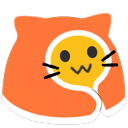
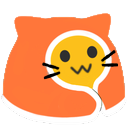
Another commit???

diff --git a/index.js b/index.js
@@ -4,8 +4,11 @@ const canvas2 = document.getElementById('canvas2');
 const context1 = canvas1.getContext('2d');
 const context2 = canvas2.getContext('2d');
 
-const blobcat = new Image(); blobcat.src = "blobcat.png";
-const blobfox = new Image(); blobfox.src = "blobfox.png";
+const rootContext = document.body.getAttribute("data-root");
+const blobcat = new Image(); blobcat.onload = function() {blobcat.crossOrigin = "Anonymous";}; blobcat.src = "blobcat.png";
+const blobfox = new Image(); blobfox.onload = function() {blobfox.crossOrigin = "Anonymous";}; blobfox.src = "blobfox.png";
+const blobcatoverlay = new Image(); blobcatoverlay.onload = function() {blobcatoverlay.crossOrigin = "Anonymous";}; blobcatoverlay.src = "blobcatoverlay.png";
+const blobfoxoverlay = new Image(); blobfoxoverlay.onload = function() {blobfoxoverlay.crossOrigin = "Anonymous";}; blobfoxoverlay.src = "blobfoxoverlay.png";
 
 function flagSelected() {
     const file = flagFile.files[0];
@@ -14,7 +17,7 @@ function flagSelected() {
     }
 
     
-    var reader = new FileReader();
+    let reader = new FileReader();
     reader.readAsDataURL(file);
 
     reader.onloadend = function() {
@@ -23,32 +26,72 @@ function flagSelected() {
         img.src = URL.createObjectURL(file);
 
         img.addEventListener('load', () => {
-            drawEmoji(blobcat, null, img, context1)
-            drawEmoji(blobfox, null, img, context2)
+            drawEmoji(blobcat, blobcatoverlay, img, context1)
+            drawEmoji(blobfox, blobfoxoverlay, img, context2)
         }, false);
     }
-         
-
-    /*
-    img.addEventListener('load', () => {
-        context.drawImage(img, 0, 0);
-        context.beginPath();
-        context.rect(5, 5, 100, 80);
-        context.stroke();
-        console.log("drawed");
-    }, false);
-    
-    img.scr = URL.createObjectURL(file);
-
-    console.log(img);
-    */
-    
 }
 
 flagFile.addEventListener("change", flagSelected, false);
 
+function lerpColor(a, b, t) {
+    return [
+        a[0] + (b[0] - a[0]) * t,
+        a[1] + (b[1] - a[1]) * t,
+        a[2] + (b[2] - a[2]) * t,
+        a[3] + (b[3] - a[3]) * t,
+    ];
+}
+
 function drawEmoji(background, overlay, flag, ctx) {
+    const pixelImageData = ctx.createImageData(1, 1);
+
     ctx.clearRect(0, 0, 128, 128);
-    ctx.drawImage(background, 0, 0);
-    ctx.drawImage(flag, 0, 0)
+
+    const backgroundCanvas = imageToCanvas(background);
+    const overlayCanvas = imageToCanvas(overlay);
+    const flagCanvas = imageToCanvas(flag);
+
+    const flagSize = Math.min(flag.width, flag.height);
+
+    for (let x = 0; x < 127; x++) {
+        for (let y = 0; y < 127; y++) {
+            let backgroundPixel = backgroundCanvas.getImageData(x, y, 1, 1).data;
+            let overlayPixel = overlayCanvas.getImageData(x, y, 1, 1).data;
+            let dx = (flag.width - flagSize) + overlayPixel[0] / 255 * flagSize;
+            let dy = overlayPixel[1] / 255 * flagSize;
+            let flagPixel = flagCanvas.getImageData(dx, dy, 1, 1).data; flagPixel[3] = 255;
+            let pixel = lerpColor(backgroundPixel, flagPixel, overlayPixel[3]/255);
+            if (backgroundPixel < 250) {
+                pixel = flagPixel;
+                pixel[3] = overlayPixel[3];
+            }
+            pixelImageData.data[0] = pixel[0];
+            pixelImageData.data[1] = pixel[1];
+            pixelImageData.data[2] = pixel[2];
+            pixelImageData.data[3] = pixel[3];
+
+            ctx.putImageData(pixelImageData, x, y);
+        }
+    }
+}
+
+function imageToCanvas(image) {
+    const canvas = document.createElement("CANVAS");
+    canvas.width = image.width;
+    canvas.height = image.height;
+
+    const ctx = canvas.getContext('2d');
+
+    ctx.drawImage(image, 0, 0);
+
+    return ctx;
+}
+
+function saveCanvas(name, canvas) {
+    const link = document.createElement('a');
+    link.download = name + '.png';
+    link.href = canvas.toDataURL();
+    link.click();
+    link.delete;
 }

diff --git a/index.html b/index.html
@@ -1,13 +1,24 @@
 <html>
     <head>
-        <script src="index.js" defer="true"></script>
+        <title>blob cat, fox emoji thing</title>
         <link rel="stylesheet" href="index.css">
+        <script src="index.js" defer="true"></script>
     </head>
     <body>
-        <label for="myfile">Select a file:</label>
-        <input type="file" id="flagFile" name="flag", accept="image/*", capture="user">
+        <h1>blobcat / blobfox emoji generator</h1>
+        <p>simple website that generates blobcat or blobfox emoji with blanket that have any texture you want</p>
 
-        <canvas id="canvas1" width="128" height="128"></canvas>
-        <canvas id="canvas2" width="128" height="128"></canvas>
+        <input type="file" id="flagFile" name="flag", accept="image/*", capture="user">
+        
+        <div class="images">
+            <canvas id="canvas1" width="128" height="128"></canvas>
+            <canvas id="canvas2" width="128" height="128"></canvas>
+        </div>
+
+        <button type="button" onclick="saveCanvas('blobcat', canvas1);" class="button">download blobcat emoji</button>
+        <button type="button" onclick="saveCanvas('blobfox', canvas2);" class="button">download blobfox emoji</button>
+
+        <p></p>
+        <a href="https://github.com/dragekk/blob-emoj-flag">Website source code</a>
     </body>
 </html>

diff --git a/index.css b/index.css
@@ -1,4 +1,81 @@
+body {
+    background-color: #ffffff;
+
+    font-family: Arial, Helvetica, sans-serif;
+    text-align: center;
+
+    zoom:130%;
+}
+
+.images {
+    display: block;
+    margin-left: auto;
+    margin-right: auto;
+    padding: 14px;
+}
+
+label {
+    color: #000000;
+}
+
 canvas {
-    border: 3px solid black;
+    border: 3px solid #d4d4d4;
     border-radius: 5%;
+
+    margin-left: auto;
+    margin-right: auto;
+}
+
+.button {
+    background-color: #e9e9e9;
+    border-color: #e9e9e9;
+    border-style: solid;
+    border-radius: 3px / 3px;
+
+    color: #000000;
+
+    padding: 4px;
+
+    transition: 0.1s;
+}
+
+.button:hover {
+    background-color: #b8b8b8;
+    border-color: #b8b8b8;
+}
+
+input[type=file] {
+    font-size: 0;
+}
+
+input[type=file]::file-selector-button {
+    font-size: 16px;
+    background-color: #e9e9e9;
+    border-color: #e9e9e9;
+    border-style: solid;
+    border-radius: 3px / 3px;
+
+    color: #000000;
+
+    padding: 4px;
+
+    transition: 0.1s;
+}
+
+input[type=file]::file-selector-button:hover {
+    background-color: #b8b8b8;
+    border-color: #b8b8b8;
+}
+
+a {
+    color:#3159c7;
+    transition: 0.2s;
+}
+
+a:hover {
+    color:#5c87ff;
+}
+
+h1 {
+    margin: 0;
 }

diff --git a/README.md b/README.md
@@ -1,0 +1,7 @@
+# blobcat/blobfox emoji generator with blanket
+simple website that generates blobcat or blobfox emoji with blanket that have any texture you want
+
+link:
+https://dragekk.github.io/blob-emoji-flag
+
+i made it because i was bored
